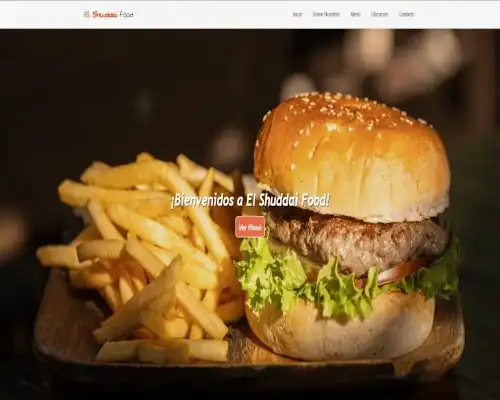
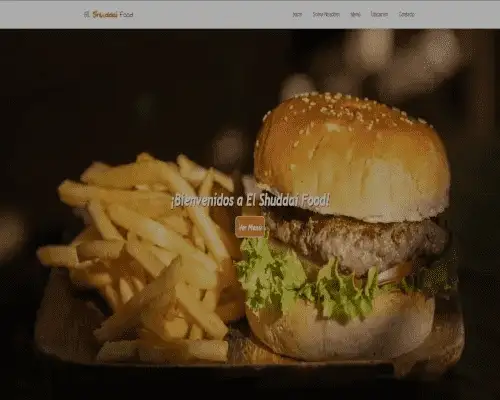
imagenes de proyectos optimizadas, cambio de fuente a Monserrat y degradado agregago en seccion Home

diff --git a/index.html b/index.html
@@ -102,8 +102,8 @@
         <div
           class="container container-home my-1 d-flex flex-wrap align-items-center gap-4"
         >
-          <div class="left col-12 col-lg-7">
-            <div class="text text-center text-uppercase">
+          <div class="left col-12 col-lg-7 text-center text-lg-start">
+            <div class="text text-uppercase">
               <p class="writeText fs-1 fw-bolder">
                 <span>Desarrollador</span> Junior
               </p>
@@ -115,12 +115,14 @@
               Enfocado en el desarrollo de soluciones eficientes y escalables
             </p>
             <div
-              class="d-flex gap-4 align-items-center justify-content-center color-primary"
+              class="d-flex gap-4 color-primary justify-content-center justify-content-lg-start"
             >
               <i class="bi bi-code fs-1"></i>
               <i class="bi bi-code-slash fs-1"></i>
             </div>
-            <div class="d-flex flex-row gap-3 gap-lg-5 justify-content-center">
+            <div
+              class="d-flex flex-row gap-3 gap-lg-5 justify-content-center justify-content-lg-start"
+            >
               <a
                 href="https://wa.me/+573005791413"
                 target="_blank"
@@ -136,9 +138,9 @@
               </a>
             </div>
           </div>
-          <div class="right col-12 col-lg-4">
+          <div class="col-12 col-lg-4">
             <img
-              src="assets/images/profile.webp"
+              src="assets/images/profileDark.webp"
               alt="imagen Ronald Mera"
               class="img img-fluid"
               loading="lazy"
@@ -149,7 +151,7 @@
         </div>
         <div class="container line"></div>
       </section>
-      <section id="about" data-aos="fade">
+      <section id="about">
         <div class="container my-0 my-lg-5 py-5">
           <h2 class="text-center mb-4">Sobre mí</h2>
 
@@ -259,7 +261,7 @@
         </div>
       </section>
 
-      <section id="projects" data-aos="fade">
+      <section id="projects">
         <div class="container my-lg-5 py-5">
           <h2 class="text-center mb-4">Mis Proyectos</h2>
           <div class="row g-4 justify-content-center p-4">
@@ -366,7 +368,7 @@
           </div>
         </div>
       </section>
-      <section id="education" data-aos="fade">
+      <section id="education">
         <div class="container my-lg-5 py-5">
           <h2 class="text-center mb-4">Mi Educación</h2>
           <p class="text-center">
@@ -424,7 +426,7 @@
           </div>
         </div>
       </section>
-      <section id="contact" data-aos="fade">
+      <section id="contact">
         <div
           class="container d-flex flex-column justify-content-center align-items-center pb-0 pb-lg-4"
         >
@@ -538,7 +540,7 @@
     </div>
     <!-- footer -->
     <!-- Remove the container if you want to extend the Footer to full width. -->
-    <div class="mt-5" data-aos="fade">
+    <div class="mt-5">
       <!-- Footer -->
       <footer class="text-center text-white" style="background-color: #418688">
         <!-- Grid container -->

diff --git a/assets/css/global.css b/assets/css/global.css
@@ -1,5 +1,6 @@
+@import url("https://fonts.googleapis.com/css2?family=Inter:ital,opsz,wght@0,14..32,100..900;1,14..32,100..900&family=Lato:ital,wght@0,100;0,300;0,400;0,700;0,900;1,100;1,300;1,400;1,700;1,900&family=Montserrat:ital,wght@0,100..900;1,100..900&family=Poppins:ital,wght@0,100;0,200;0,300;0,400;0,500;0,600;0,700;0,800;0,900;1,100;1,200;1,300;1,400;1,500;1,600;1,700;1,800;1,900&family=Quicksand:wght@300..700&family=Roboto:ital,wght@0,100..900;1,100..900&family=Swanky+and+Moo+Moo&family=Tagesschrift&display=swap");
 * {
-  font-family: Roboto, sans-serif;
+  font-family: Montserrat, quicksand;
   box-sizing: border-box;
   margin: 0px;
   padding: 0px;

diff --git a/assets/css/home.css b/assets/css/home.css
@@ -2,12 +2,14 @@
   color: var(--color-primary);
 }
 .custom-bg-color {
-  background: #070c14;
+  /* background: #070c14;
   background: linear-gradient(
     180deg,
     rgba(7, 12, 20, 1) 22%,
     rgba(10, 15, 24, 1) 85%
-  );
+  ); */
+  background: -webkit-linear-gradient(0deg, #0a0f18, #23474ccc);
+  background: linear-gradient(0deg, #0a0f18, #23474ccc);
 }
 #home {
   position: relative;
